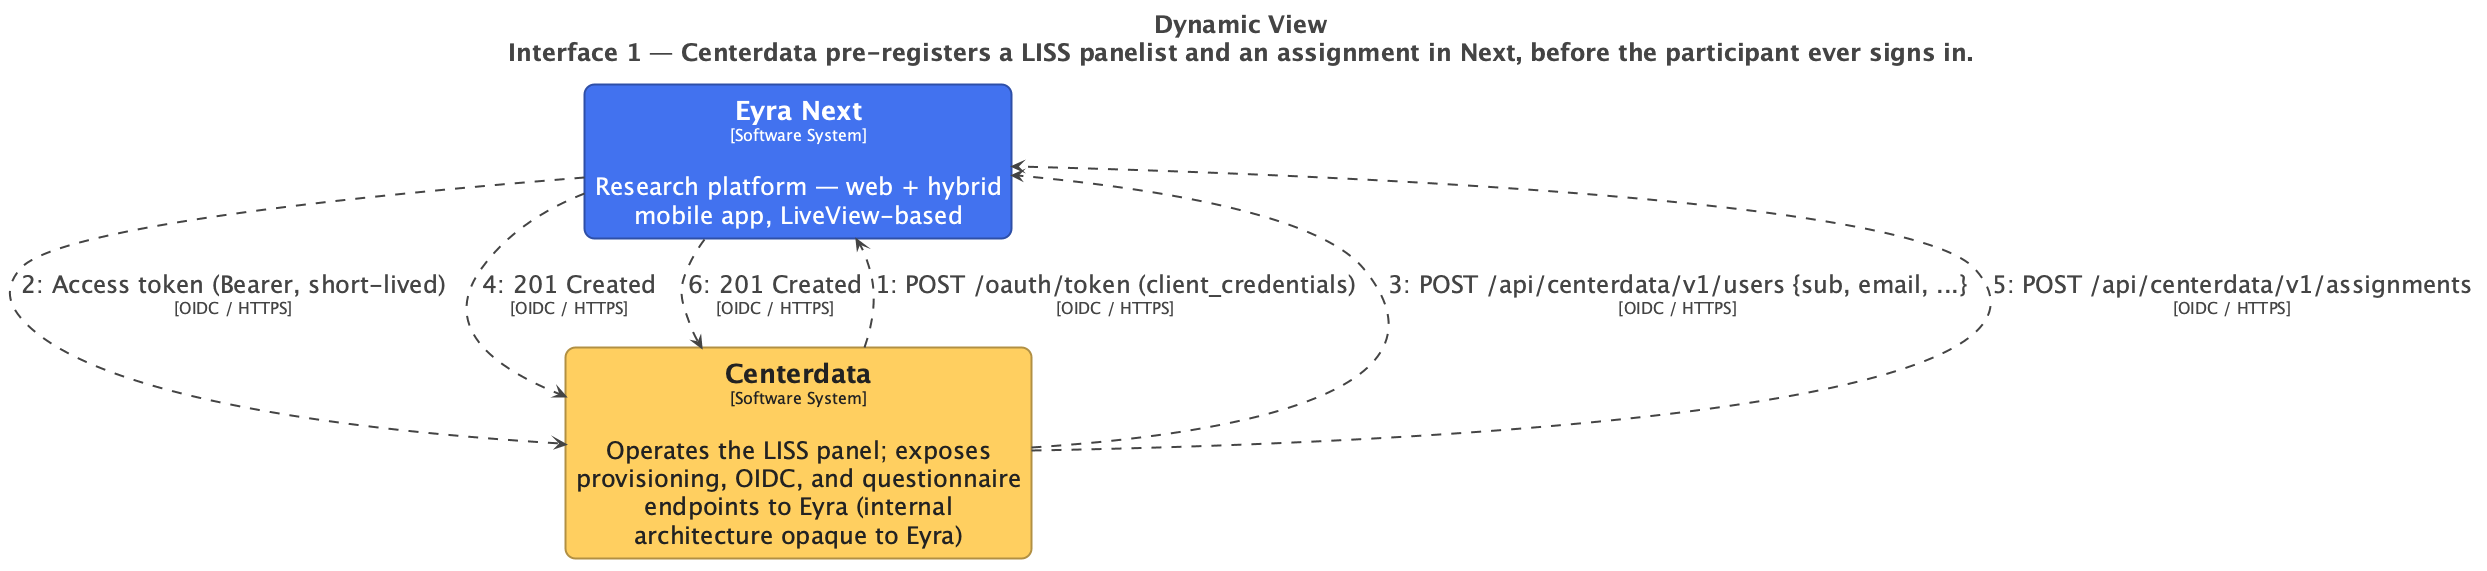
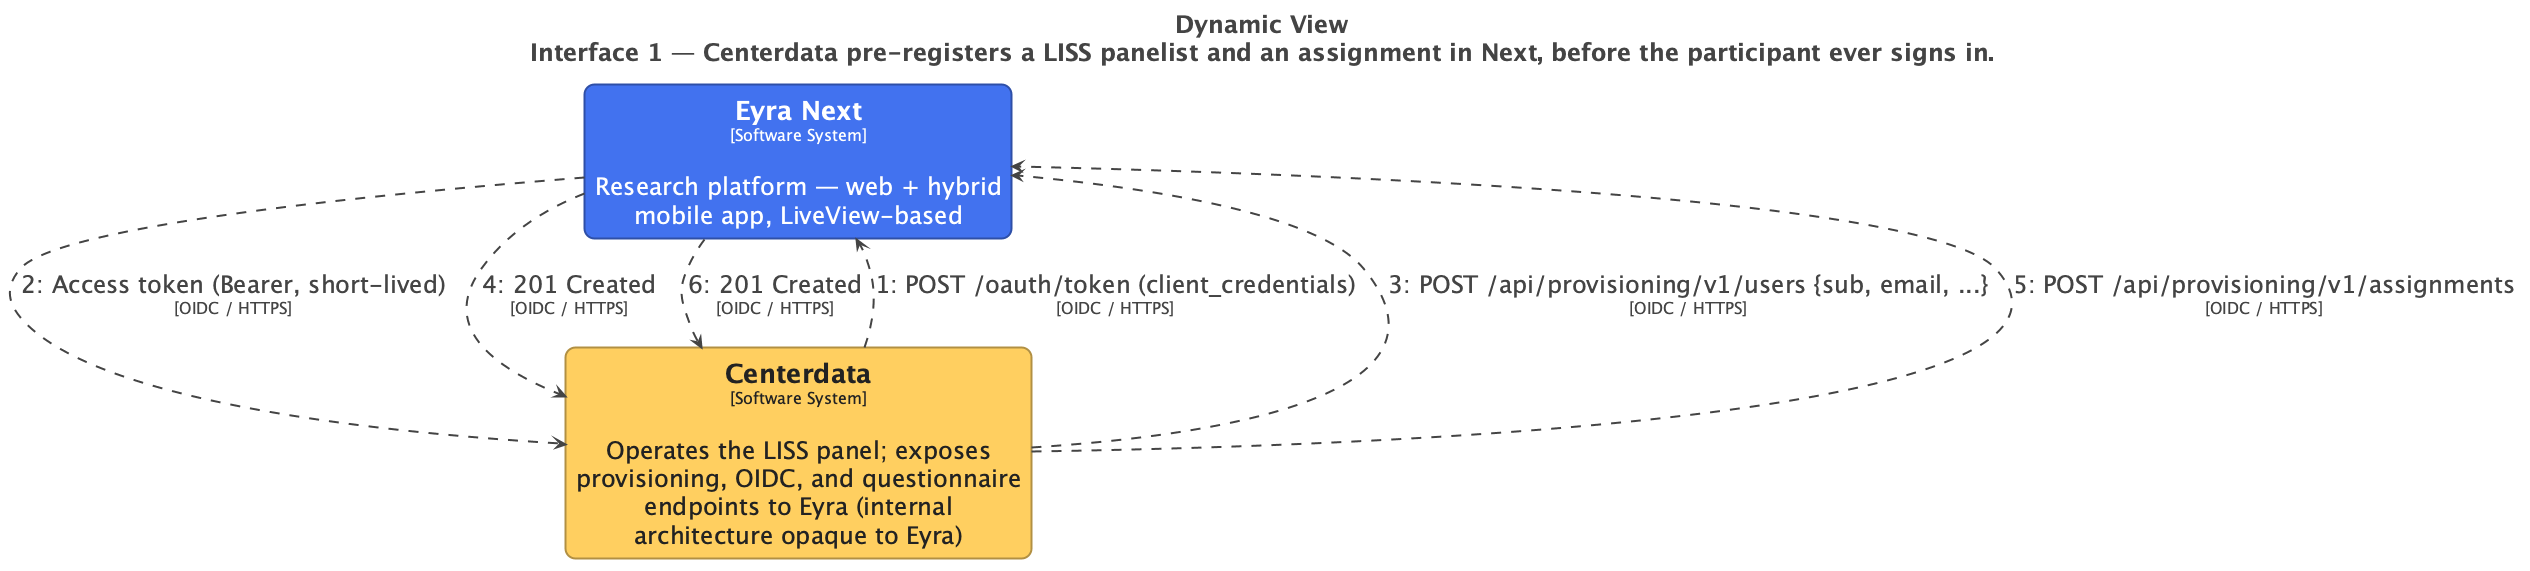
docs(architecture): make provisioning API generic
The provisioning API is not Centerdata-specific — Centerdata is one
client among others (future partners, the internal Next CLI). The path
should reflect the *purpose* of the surface, not who happens to call it.

- /api/centerdata/v1/{users,assignments} → /api/provisioning/v1/{...}
- Add a note in §5.4 making the generic intent explicit

Scope-first / version-after-scope layout: each surface (provisioning,
admin, etc.) versions independently, so partner-stable contracts
aren't held back by churn elsewhere.

diff --git a/core/docs/architecture/oauth-mobile-centerdata/README.md b/core/docs/architecture/oauth-mobile-centerdata/README.md
@@ -91,13 +91,15 @@ At first sign-in via OIDC, Eyra looks up the pre-registered Next user by matchin
 The exact API contract is part of the implementation work and will be specified separately. As a starting sketch:
 
 ```
-POST   /api/centerdata/v1/users               Pre-register a LISS panelist
-PATCH  /api/centerdata/v1/users/{sub}         Update a pre-registered user
-DELETE /api/centerdata/v1/users/{sub}         Deactivate a user
-POST   /api/centerdata/v1/assignments         Create an assignment for one or more users
-PATCH  /api/centerdata/v1/assignments/{id}    Update an assignment
-DELETE /api/centerdata/v1/assignments/{id}    Withdraw an assignment
+POST   /api/provisioning/v1/users             Pre-register a LISS panelist
+PATCH  /api/provisioning/v1/users/{sub}       Update a pre-registered user
+DELETE /api/provisioning/v1/users/{sub}       Deactivate a user
+POST   /api/provisioning/v1/assignments       Create an assignment for one or more users
+PATCH  /api/provisioning/v1/assignments/{id}  Update an assignment
+DELETE /api/provisioning/v1/assignments/{id}  Withdraw an assignment
 ```
+
+The API is generic — Centerdata is one client among others (future partners, the internal Next CLI). The `provisioning` scope and `v1` version are independent of any specific caller.
 
 All requests/responses are JSON. All endpoints return standard HTTP status codes and a structured error body on failure.
 